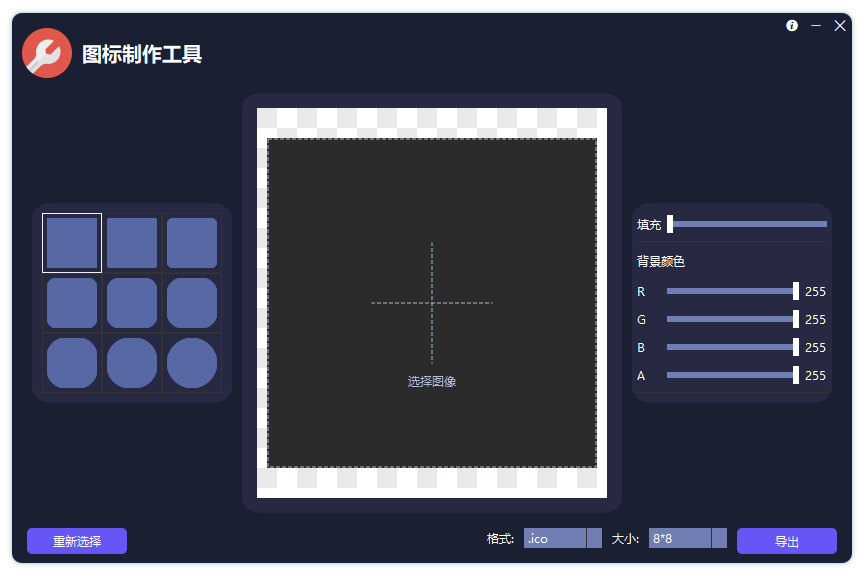
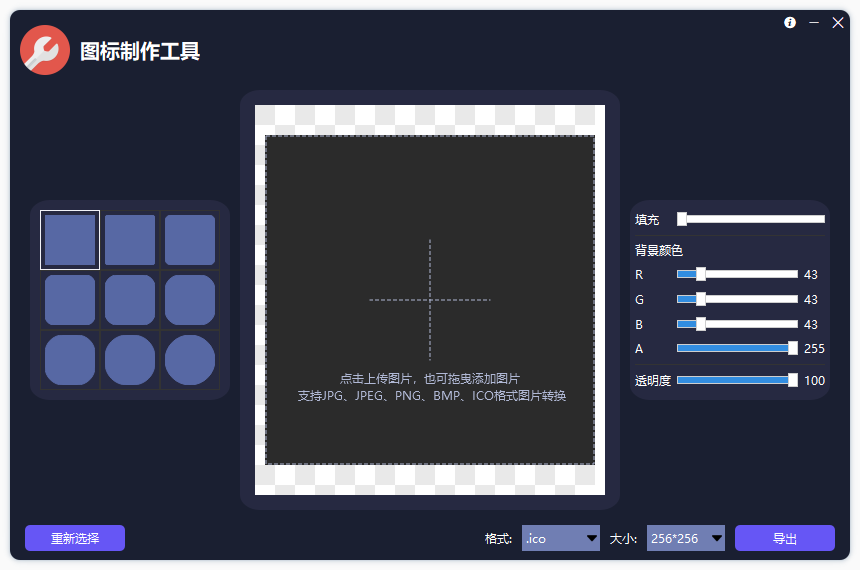
优化代码逻辑，最大支持1024*1024分辨率输出

diff --git a/res/css/ps.css b/res/css/ps.css
@@ -2,7 +2,7 @@ QPalette{background:#474747;}*{outline:0px;}
 
 
 QWidget[form="mainpane"] {
-	border-radius: 10px;
+	border-radius: 0;
 	background: #474747;
 	color: #D5D5D5;
     
@@ -12,11 +12,11 @@ QWidget[form="mainpane"] {
 
 QWidget[form="m_wLeftPane"],QWidget[form="m_wContentPane"],QWidget[form="m_wRightPane"] {
 	background: #252525;
-	border-radius: 20px 15px;
+	border-radius: 0;
 }
 
 QWidget[form="About"] {
-	border-radius: 10px;
+	border-radius: 0;
 	background: #474747;
 	color: #D5D5D5;
 }

diff --git a/res/css/flatui.css b/res/css/flatui.css
@@ -2,7 +2,7 @@ QPalette{background:#00a8ff;}*{outline:0px;}
 
 
 QWidget[form="mainpane"] {
-	border-radius: 10px;
+	border-radius: 5px;
 	background: #00a8ff;
 	color: #fff;
     
@@ -16,7 +16,7 @@ QWidget[form="m_wLeftPane"],QWidget[form="m_wContentPane"],QWidget[form="m_wRigh
 }
 
 QWidget[form="About"] {
-	border-radius: 10px;
+	border-radius: 5px;
 	background: #00a8ff;
 	color: #fff;
 }

diff --git a/source/mainpane.cpp b/source/mainpane.cpp
@@ -72,6 +72,9 @@ MainPane::MainPane(QWidget *parent) : QWidget(parent)
 
 void MainPane::SetBgColor(QColor color)
 {
+    if (!m_pixOld.isNull())
+        return;
+
     m_colorBg = color;
 
     m_sliderR->setValue(m_colorBg.red());
@@ -300,6 +303,44 @@ void MainPane::InitBottomPane()
     m_comboxSize->setCurrentIndex(10);
 }
 
+void MainPane::UpdateSizeCombox()
+{
+    m_comboxSize->clear();
+
+    QString strFormat = m_comboxFormat->currentText();
+    if (!strFormat.compare(".ico"))
+    {
+        m_comboxSize->addItem("8*8", 8);
+        m_comboxSize->addItem("16*16", 16);
+        m_comboxSize->addItem("24*24", 24);
+        m_comboxSize->addItem("32*32", 32);
+        m_comboxSize->addItem("36*36", 32);
+        m_comboxSize->addItem("40*40", 40);
+        m_comboxSize->addItem("48*48", 48);
+        m_comboxSize->addItem("64*64", 64);
+        m_comboxSize->addItem("100*100", 100);
+        m_comboxSize->addItem("128*128", 128);
+        m_comboxSize->addItem("256*256", 256);
+        m_comboxSize->setCurrentIndex(10);
+    }
+    else
+    {
+        m_comboxSize->addItem("8*8", 8);
+        m_comboxSize->addItem("16*16", 16);
+        m_comboxSize->addItem("24*24", 24);
+        m_comboxSize->addItem("32*32", 32);
+        m_comboxSize->addItem("36*36", 32);
+        m_comboxSize->addItem("40*40", 40);
+        m_comboxSize->addItem("48*48", 48);
+        m_comboxSize->addItem("64*64", 64);
+        m_comboxSize->addItem("100*100", 100);
+        m_comboxSize->addItem("128*128", 128);
+        m_comboxSize->addItem("256*256", 256);
+        m_comboxSize->addItem(QString("%1*%1").arg(MAX_OUTPUT_SIZE), MAX_OUTPUT_SIZE);
+        m_comboxSize->setCurrentIndex(10);
+    }
+}
+
 void MainPane::resizeEvent(QResizeEvent *event)
 {
 
@@ -313,7 +354,7 @@ void MainPane::UpdatePixmap()
     m_labelAV->setText(QString::number(m_colorBg.alpha()));
     m_labelOpacityV->setText(QString::number(m_nOpacity));
 
-    const int MAX_WIDTH = 512;
+    const int MAX_WIDTH = MAX_OUTPUT_SIZE;
 
     if (m_pixOld.isNull())
     {
@@ -341,7 +382,7 @@ void MainPane::UpdatePixmap()
         nBorderRadius = MAX_WIDTH / 2;
 
     QPainterPath path;
-    path.addRoundRect(rcBaic, nBorderRadius, nBorderRadius);
+    path.addRoundRect(rcBaic, m_nBorderRadius, m_nBorderRadius);
     painter.setClipPath(path);
 
     painter.setPen(Qt::NoPen);
@@ -349,8 +390,9 @@ void MainPane::UpdatePixmap()
     painter.drawRect(rcBaic);
 
     QRect rcImg(rcBaic);
+    int nPadding = MAX_WIDTH / 3 * m_nPadding / 100;
     QPixmap p = m_pixOld.scaled(rcImg.size(), Qt::KeepAspectRatio, Qt::SmoothTransformation);
-    painter.drawPixmap(rcImg.marginsRemoved(QMargins(m_nPadding, m_nPadding, m_nPadding, m_nPadding)), p);
+    painter.drawPixmap(rcImg.marginsRemoved(QMargins(nPadding, nPadding, nPadding, nPadding)), p);
 
     painter.end();
 
@@ -484,27 +526,6 @@ void MainPane::InitSolts()
         }
     });
 
-    //    connect(m_btnAbout, &QPushButton::clicked, [=]() {
-
-    ////        m_pAboutdlg->setModal(true);
-    ////        m_pAboutdlg->show();
-
-    ////        QPoint ptBtn = m_pCanvas->mapToGlobal(m_pCanvas->pos());
-    ////        QPoint point(ptBtn);
-    ////        point.setX(ptBtn.x() - m_pCanvas->pos().x() + m_pCanvas->width() / 2 - m_pAboutdlg->width() / 2 - 4);
-    ////        point.setY(ptBtn.y() - m_pCanvas->pos().y() - m_pAboutdlg->height() - 2);
-
-    ////        QRect rcStart, rcEnd;
-    ////        rcEnd = QRect(point.x(), point.y() + m_pAboutdlg->height(), m_pAboutdlg->width(), m_pAboutdlg->height());
-    ////        rcStart = QRect(point.x(), point.y(), m_pAboutdlg->width(), m_pAboutdlg->height());
-
-    ////        QPropertyAnimation *animation = new QPropertyAnimation(m_pAboutdlg, "geometry");
-    ////        animation->setDuration(200);
-    ////        animation->setStartValue(rcStart);
-    ////        animation->setEndValue(rcEnd);
-    ////        animation->start();
-    //    });
-
     connect(m_btnExport, &QPushButton::clicked, [=]()
     {
         if (m_pixNew.isNull())
@@ -525,6 +546,11 @@ void MainPane::InitSolts()
             QImage img = pixTemp.toImage();
             img.save(fileName, NULL, 100);
         }
+    });
+
+    connect(m_comboxFormat, &QComboBox::currentTextChanged, [=]()
+    {
+        UpdateSizeCombox();
     });
 }
 

diff --git a/source/about.cpp b/source/about.cpp
@@ -35,8 +35,8 @@ void About::InitCtrl()
 
     QGraphicsDropShadowEffect *shadow_effect = new QGraphicsDropShadowEffect(this);
     shadow_effect->setOffset(0, 0);
-    shadow_effect->setColor(QColor(38, 78, 119, 127));
-    shadow_effect->setBlurRadius(30);
+    shadow_effect->setColor(QColor(38, 78, 119));
+    shadow_effect->setBlurRadius(10);
     m_widgetMain->setGraphicsEffect(shadow_effect);
 
     m_labelLogo->setFixedSize(50, 50);

diff --git a/include/mainpane.h b/include/mainpane.h
@@ -41,11 +41,11 @@ private:
     void InitRightPane();
     void InitBottomPane();
 
+    void UpdateSizeCombox();
+
     void resizeEvent(QResizeEvent *event);
 
-
     void UpdatePixmap();
-
     QPixmap GetPixmap( const QString &strColor, uint dwPixWidth, uint dwPixHeight, uint borderRadius );
 
 private slots:

diff --git a/include/global.h b/include/global.h
@@ -17,6 +17,7 @@
 #include <QMouseEvent>
 
 #define VERSION "v1.0"
+#define MAX_OUTPUT_SIZE 1024
 
 #define GLOBAL_FUNC \
         void CreateAllChildWnd(); \

diff --git a/README.md b/README.md
@@ -1,7 +1,8 @@
 # IcoTools
 
 # 📚简介
-本项目为Qt实现图标生成器
+> 本项目为Qt实现图标生成器, 支持ico，png，jag，jpeg，bmp图标编辑，主要编辑图标背景色，圆角，填充距离，透明度等。支持主题切换，拖拽上传，导出格式，导出大小等
+> 内置三款主题，可动态切换，全局主题可css文件配置
 
 # 📦软件架构
 - Qt 5.9 + msvc 2015
@@ -11,25 +12,39 @@
 
 # 🛠主要技术
 
-
-| 模块                |     介绍                                                                          |
-| -------------------|---------------------------------------------------------------------------------- |
-| qss                   |     样式表，本程序所有窗体、控件的样式都由qss设计                                           |
-| signal\slot                |     控件、窗体间通信，事件处理                                               |
-| QPainter        |     部分窗口的绘制                                       |
-| iconfont      |     阿里巴巴矢量图标库，主要用于按钮及标签上图标等显示                                     |
+| 模块               |     介绍                                                                         |
+| -------------------|---------------------------------------------------------------------------------|
+| qss                |     样式表，本程序所有窗体、控件的样式都由qss设计                                   |
+| signal\slot        |     控件、窗体间通信，事件处理                                                    |
+| QPainter           |     部分窗口的绘制                                                               |
+| iconfont           |     阿里巴巴矢量图标库，主要用于按钮及标签上图标等显示                              |
 
 
 # 🗺软件截图
 
-### 演示1
-![演示1](https://gitee.com/hudejie/IcoTools/raw/master/screenshot/1.png)
+### 主界面
+![主界面](https://gitee.com/hudejie/IcoTools/raw/master/screenshot/1.png)
 
-### 演示2
-![演示2](https://gitee.com/hudejie/IcoTools/raw/master/screenshot/2.png)
+### 图标编辑
+![图标编辑](https://gitee.com/hudejie/IcoTools/raw/master/screenshot/2.png)
 
-### 演示3
-![演示3](https://gitee.com/hudejie/IcoTools/raw/master/screenshot/3.png)
+### 圆角设置
+![圆角设置](https://gitee.com/hudejie/IcoTools/raw/master/screenshot/3.png)
+
+### 填充设置
+![填充设置](https://gitee.com/hudejie/IcoTools/raw/master/screenshot/4.png)
+
+### 整体透明度
+![整体透明度](https://gitee.com/hudejie/IcoTools/raw/master/screenshot/5.png)
+
+### 主题切换
+![主题切换](https://gitee.com/hudejie/IcoTools/raw/master/screenshot/6.png)
+
+### 扁平化
+![主题切换](https://gitee.com/hudejie/IcoTools/raw/master/screenshot/7.png)
+
+### Photoshop风
+![Photoshop风](https://gitee.com/hudejie/IcoTools/raw/master/screenshot/8.png)
 
 ### 生成图标
 ![生成图标](https://gitee.com/hudejie/IcoTools/raw/master/screenshot/icon.ico)
